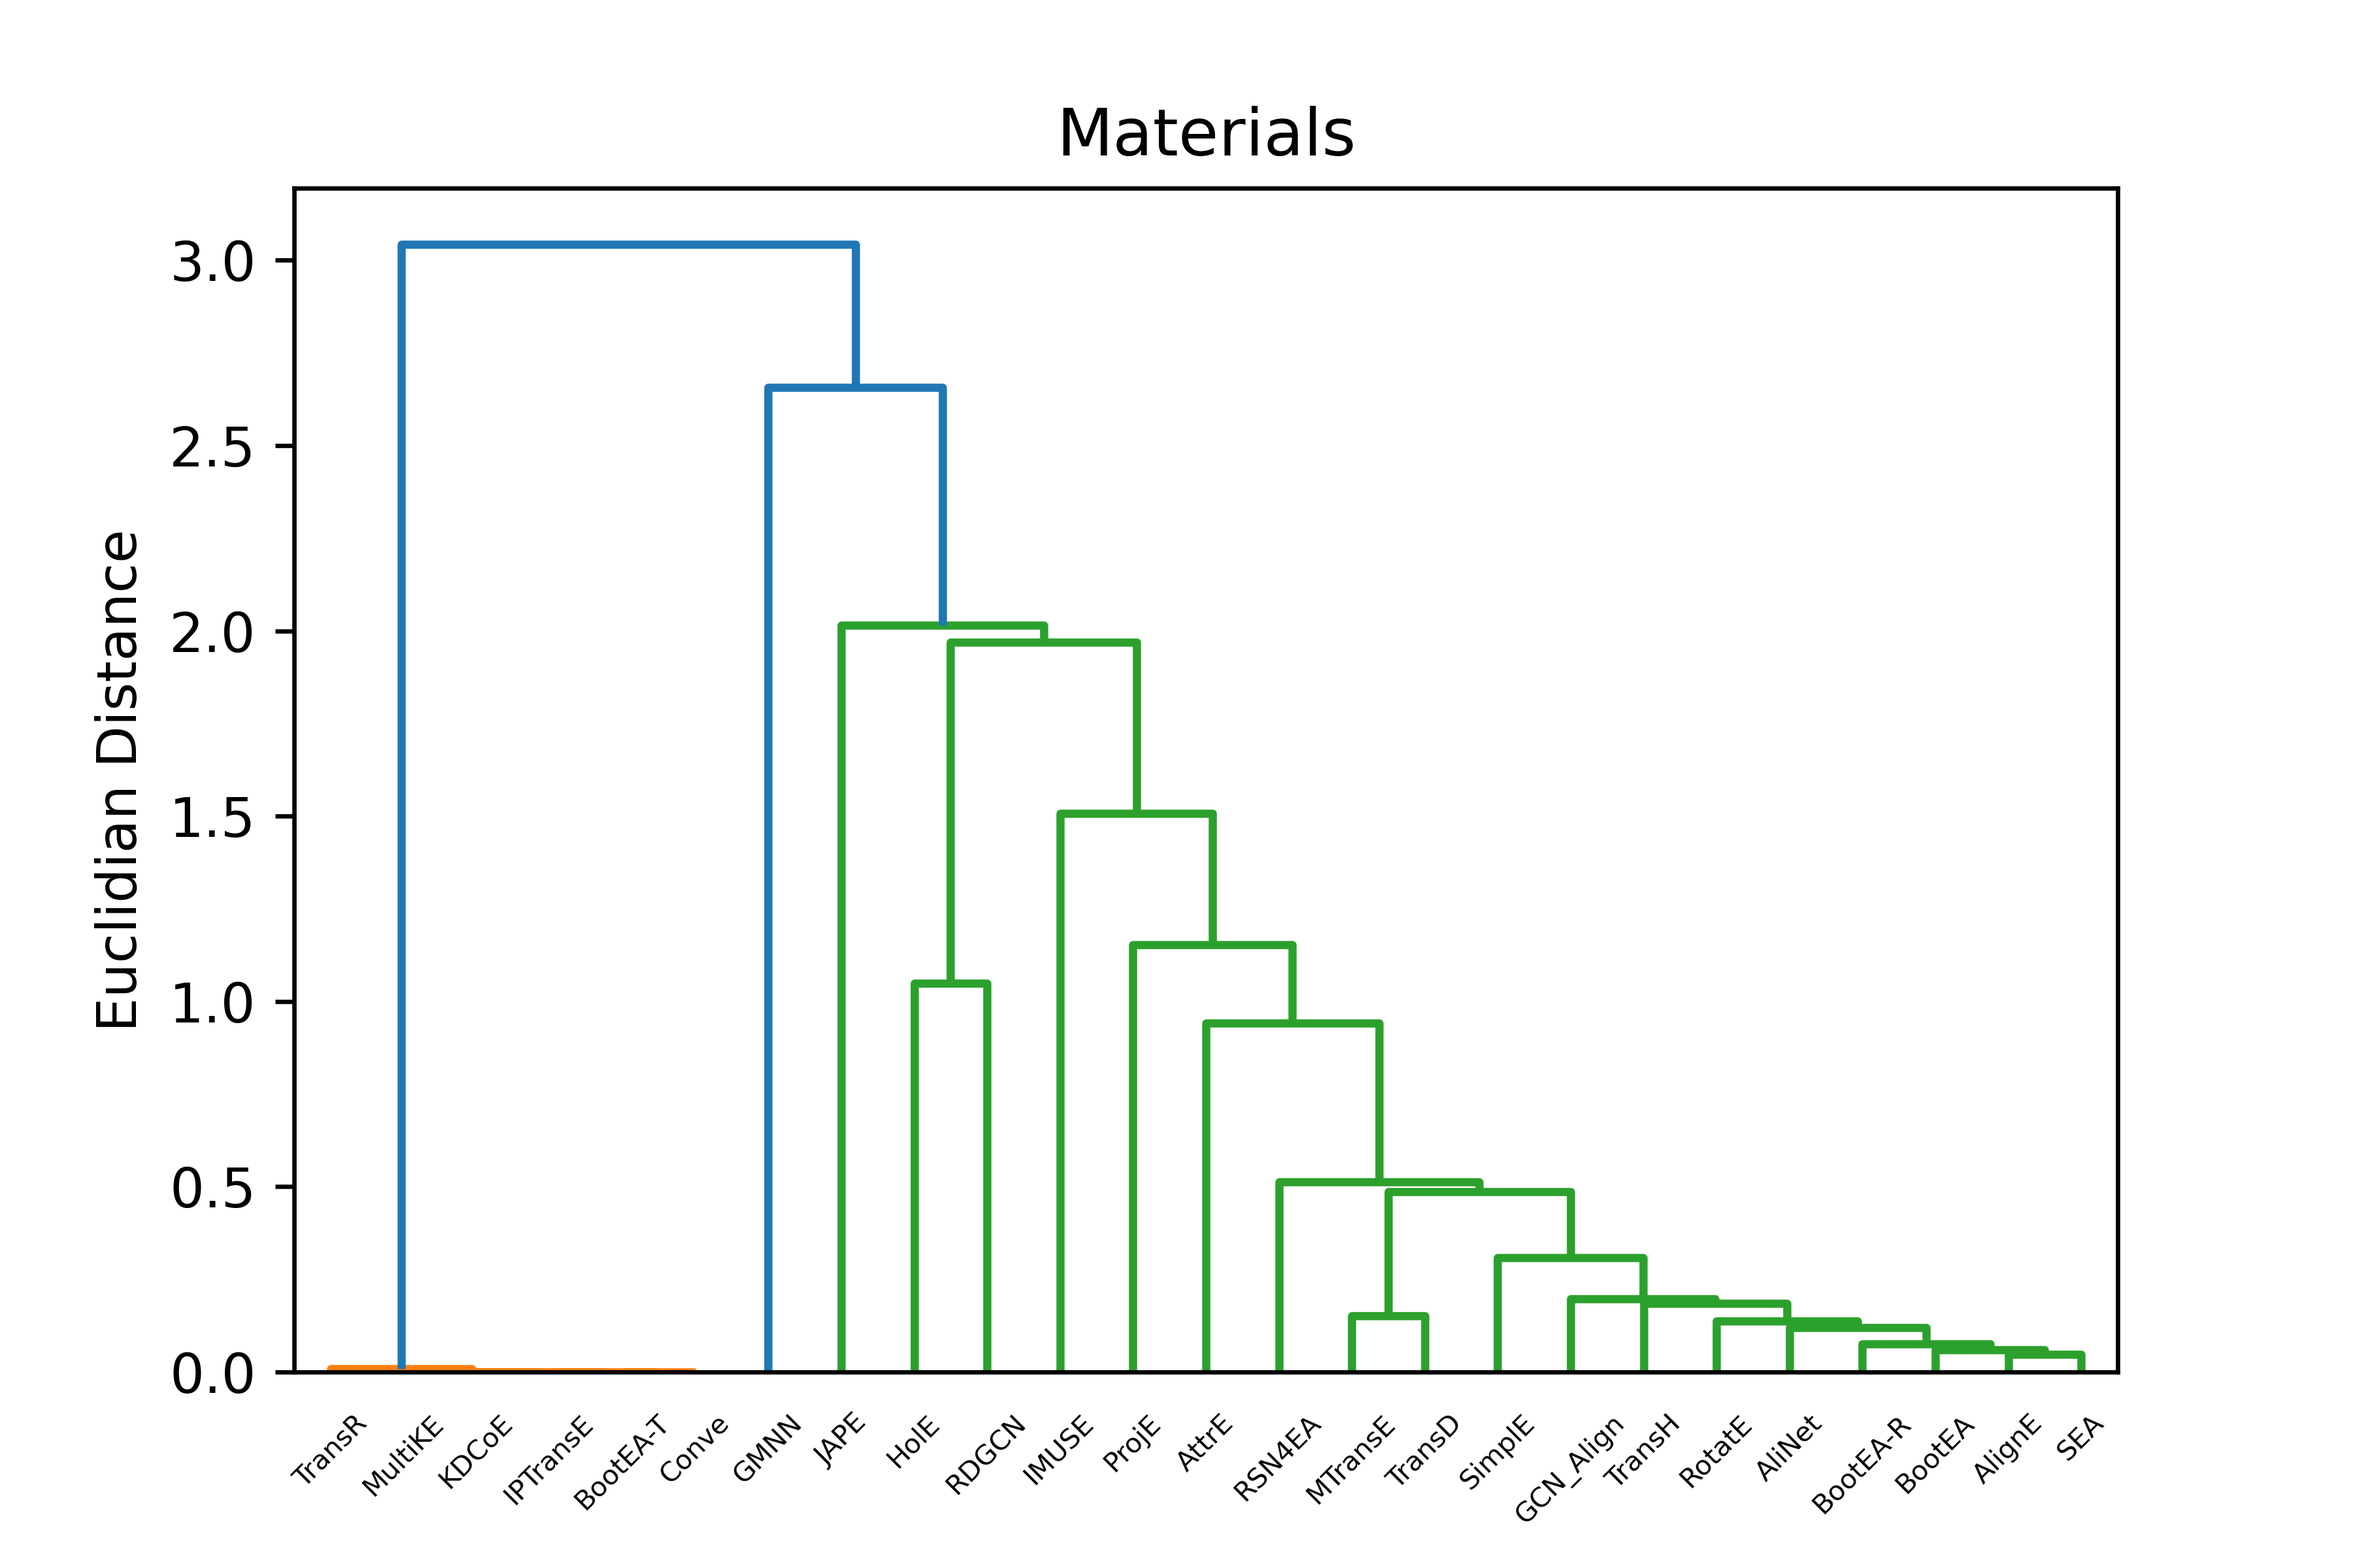
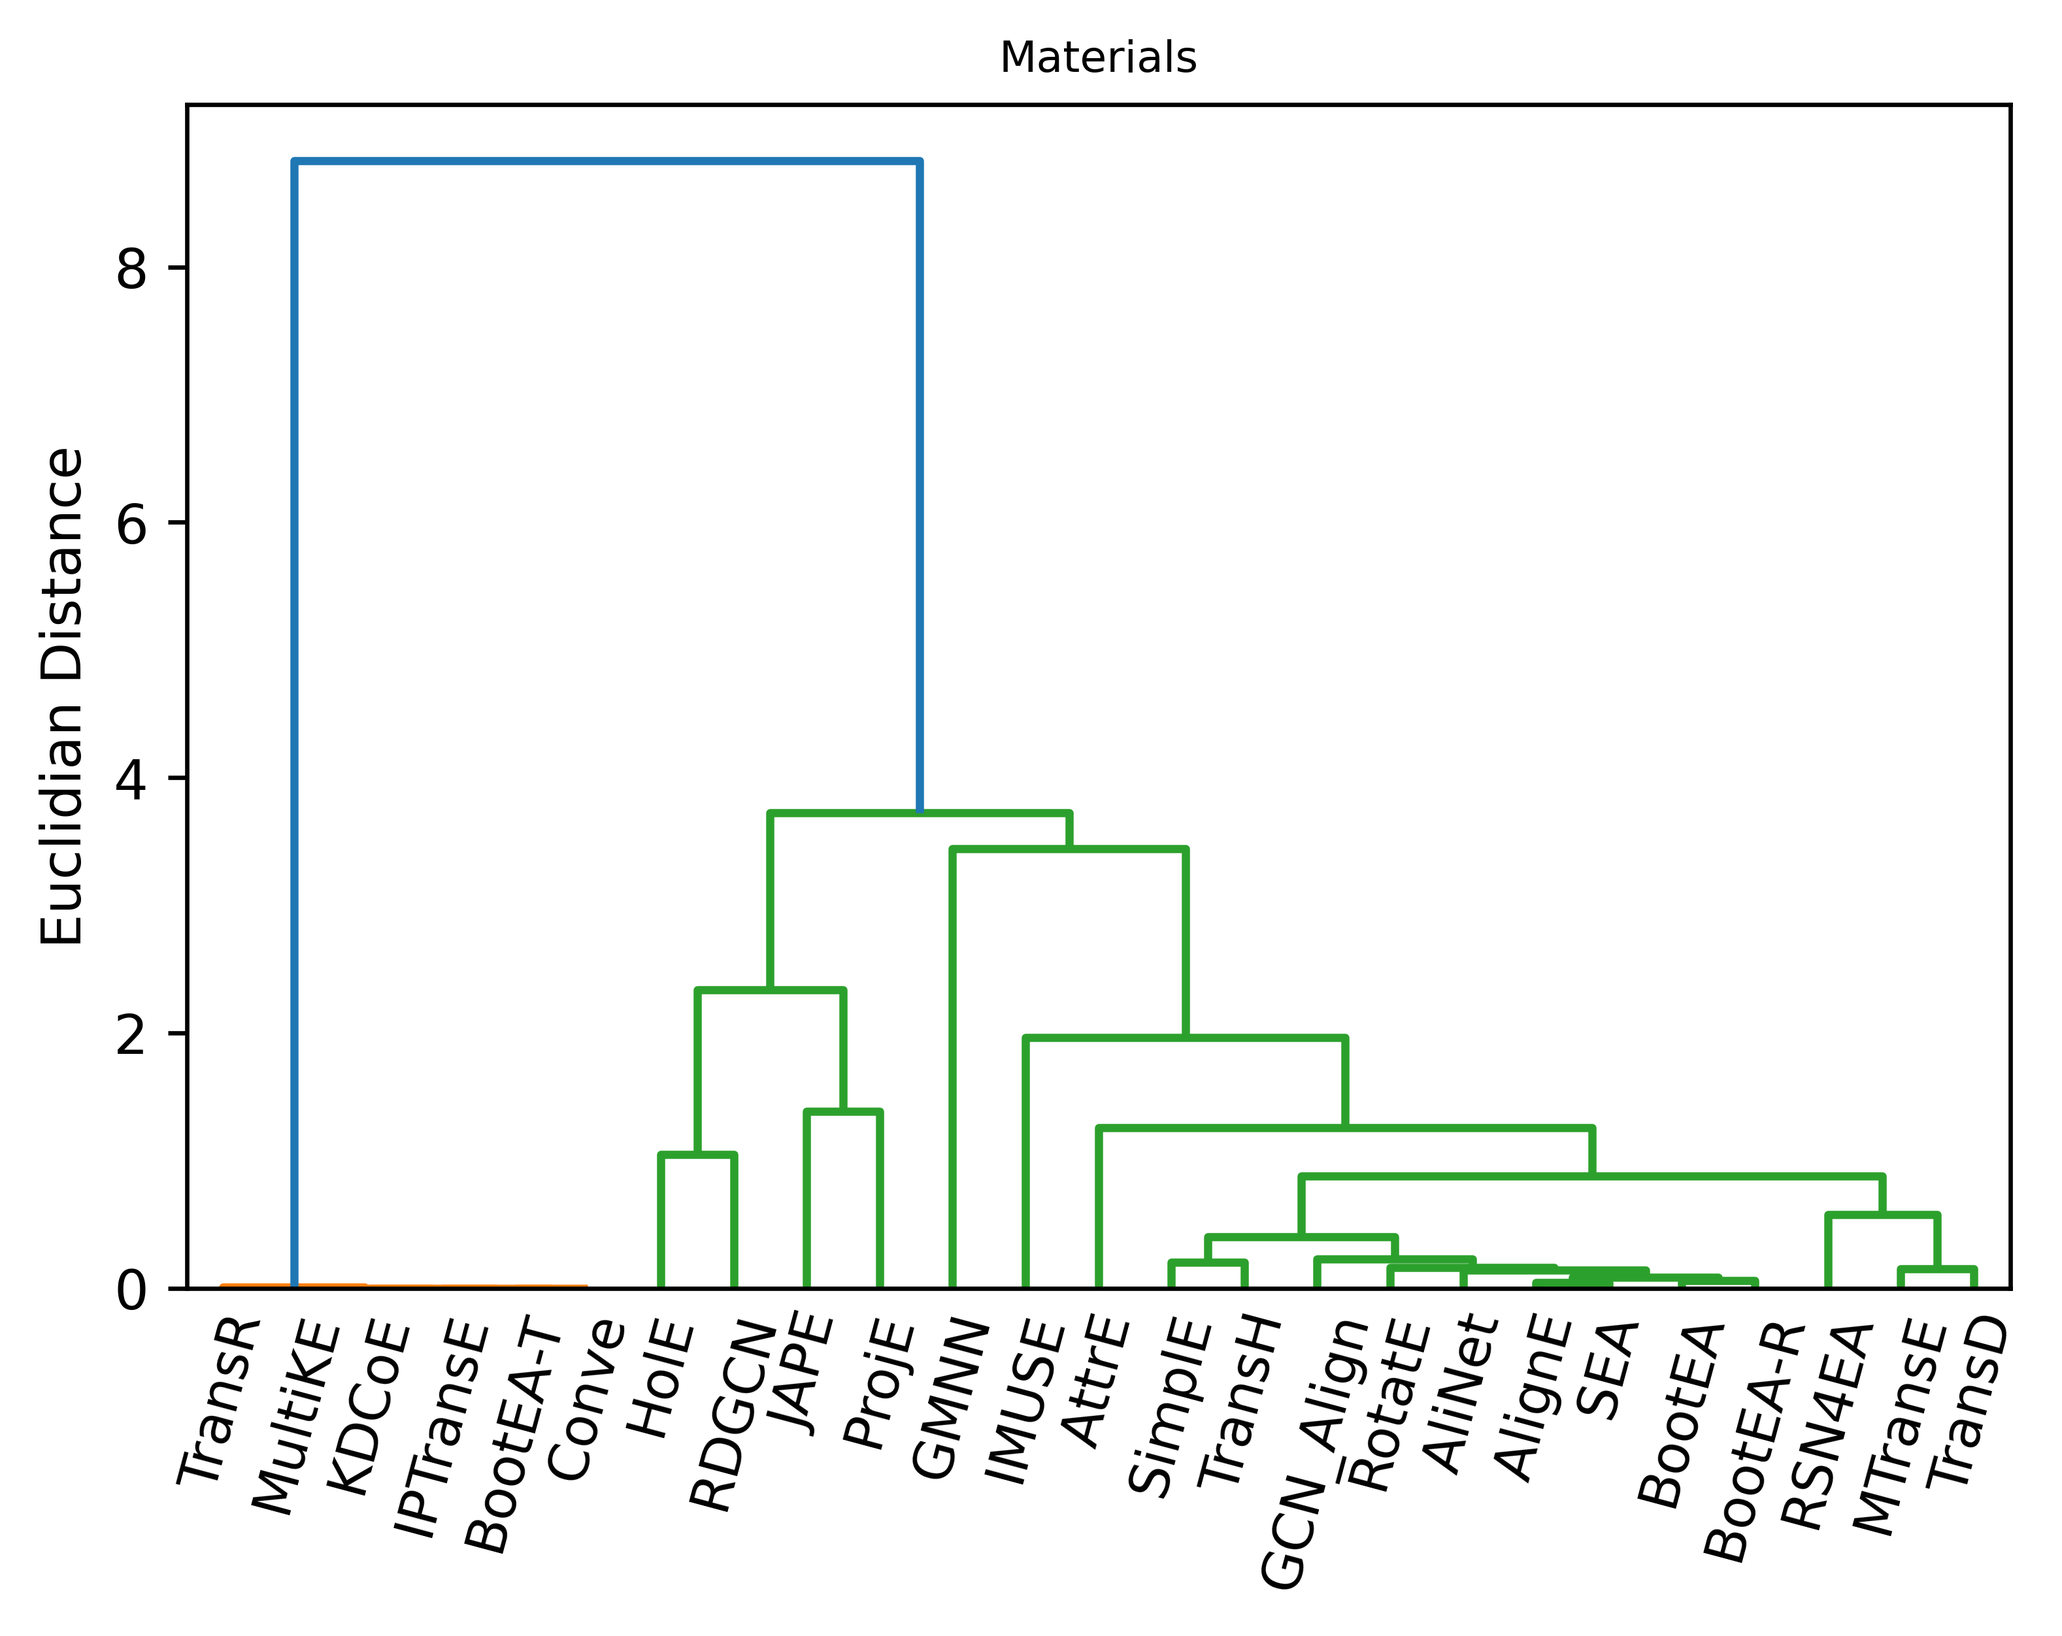
Update Figures Materials

Changed region(s): [[0.0, 0.0312, 0.994, 0.9688]]

diff --git a/Materials/materials.md b/Materials/materials.md
@@ -271,17 +271,31 @@
 
 ## Results
 
+<figcaption><strong>Figure Methods Boxplot.</strong> Boxplot of the OpenEA methods according to the Hits@1 metric of the 5 pairwise comparisons of the KGs generated from the Materials dataset. The orange solid line represents the median and the red diamond the mean of the experiments that did not lead to an error. The number of experiments without error is shown in brackets next to the name of the method. BootEA-TransH, ConvE, KDCoE and MultiKE are not shown because their error rate is equal to 1 for all datasets.</figcaption>
+
 ![Modules Boxplot E-Commerce Data](./Figures/boxplotApproaches.png "Modules Boxplot E-Commerce Data")
+
+<figcaption><strong>Figure Methods Clustering.</strong> Hierarchical clustering (Ward algorithm) of 25 OpenEA methods according to the 5 metrics for the 5 pairwise comparisons of the KGs generated from the Materials dataset.</figcaption>
 
 ![Modules Clusters E-Commerce Data](./Figures/clusterApproaches.png "Modules Clusters Brazilian E-Commerce Data")
 
+<figcaption><strong>Figure Experiments Boxplot.</strong> Boxplot of the 5 types of pairwise comparison experiments of KGs based on the Hits@1 score obtained by the 25 methods carried out in the Materials dataset. The orange solid line represents the median and the red diamond the mean of the experiments that did not lead to an error. The number of modules that did not generate an error is shown in brackets under the name of the experiment represented.</figcaption>
+
 ![Datasets Boxplot E-Commerce Data](./Figures/boxplotDatasetsPairs.png "Datasets Boxplot E-Commerce Data")
+
+<figcaption><strong>Figure Experiments Clustering.</strong> Hierarchical clustering, with method Ward, of the 5 types of pairwise comparison experiments of KG, according to the 5 metrics, with all the values scaled to the range [0,1], of the 25 (at most) OpenEA modules carried out in the Materials dataset.</figcaption>
 
 ![Datasets Clusters E-Commerce Data](./Figures/clusterDataset.png "Datasets Clusters E-Commerce Data")
 
+<figcaption><strong>Figure Distribution of OpenEA methods</strong>, according to the average Hits@1 score obtained between datasets and the average execution time obtained between datasets, scaled between 0 and 1 for each experiment. The average percentage of failed experiments between datasets is included in the label. Modules with an error rate of 1 are not shown.</figcaption>
+
 ![Plot Modules Means H@1, Runtime, Error Rate](./Figures/plotMeansModules.png "Plot Modules Means H@1, Runtime, Error Rate")
 
+<figcaption><strong>Figure Bar Chart mean Hits@1</strong>, showing for each OpenEA method, the mean Hits@1 metric for each of the four types of graph pairwise self-alignment experiment (M-M, BG-BG, EG-EG and M-EB) considering the Materials datasets. The average has been calculated only taking into account the non-failed experiments. BootEA-TransH, ConvE, KDCoE and MultiKE are not shown because their error rate is equal to 1.</figcaption>
+
 ![BarChart Methods-Experiments Materials](./Figures/barchartMethodsMaterials.png "BarChart Methods-Experiments Materials")
+
+<figcaption><strong>Figure Bar Chart Combined Methods.</strong> Bar chart containing the average increase in Hits@1 value when combining the AttrE module with either BootEA or Align-E or SEA, with respect to the module of each pair with the highest Hits@1 value. For the 5 types of experiments M-M, EG-EG, BG-BG, M-EG and M-BG. This is the average obtained from the averages obtained from all the classes aligned in the Materials dataset.</figcaption>
 
 ![BarChart Merged Methods Materials](./Figures/barchartMethodsAccumulated.png "BarChart Merged Methods Materials")
 
